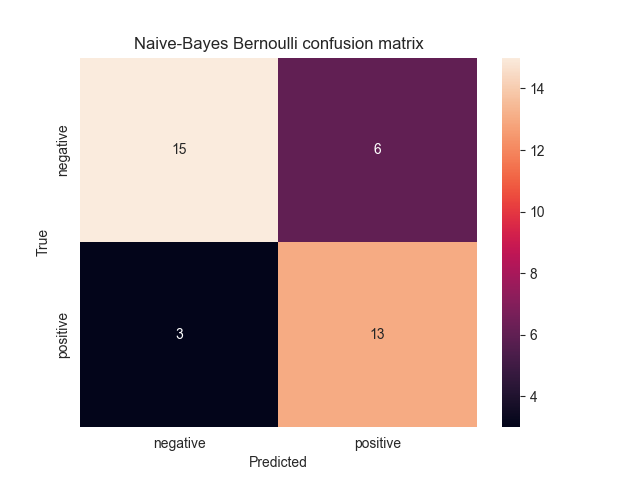
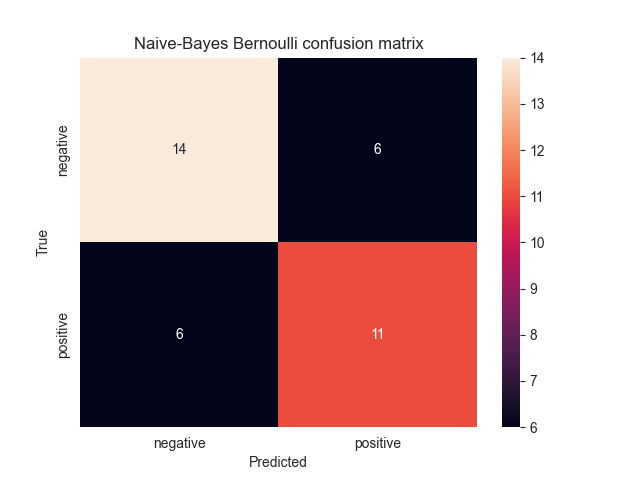
feat: adjust seed

diff --git a/app/services/training_service.py b/app/services/training_service.py
@@ -44,7 +44,7 @@ class TrainingService(metaclass=SingletonMeta):
         # Divide dataset in training and test
         x_values = df[word_columns]
         y_values = df['sentiment']
-        seed = 4321
+        seed = 1
 
         x_train, x_test, y_train, y_test = train_test_split(
             x_values,
